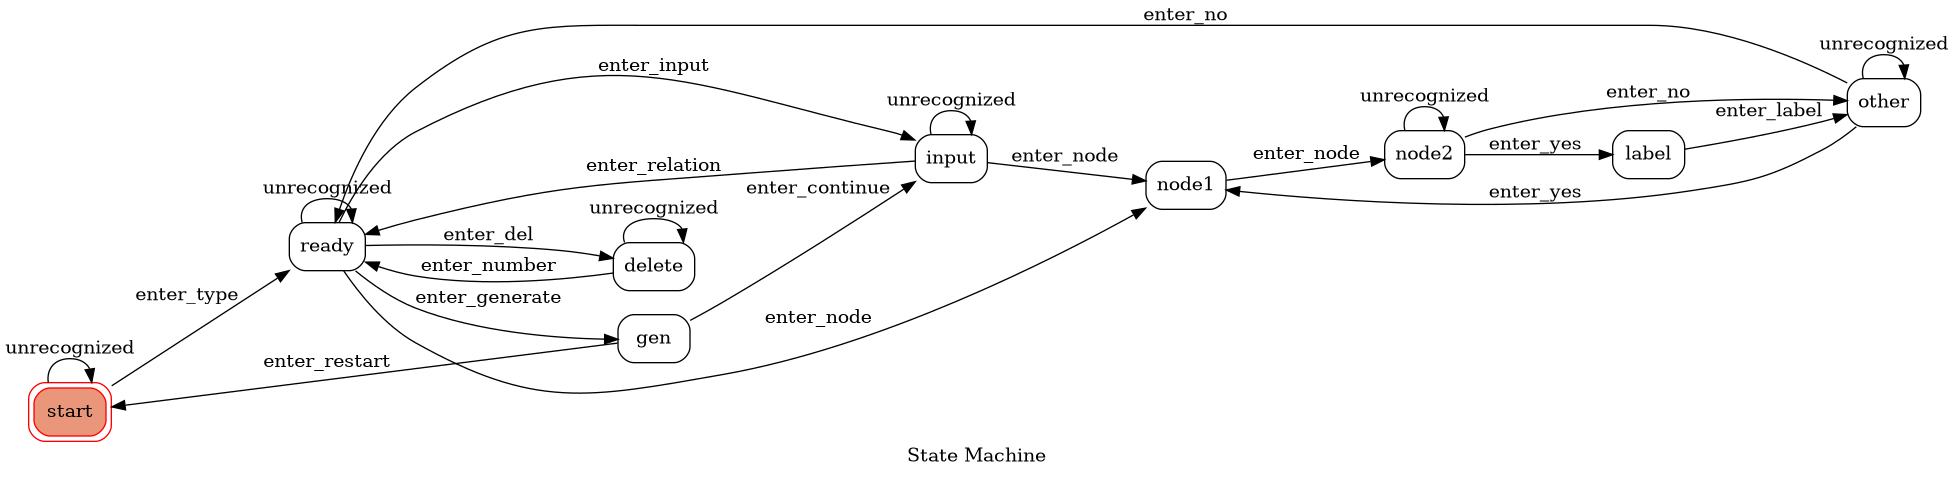
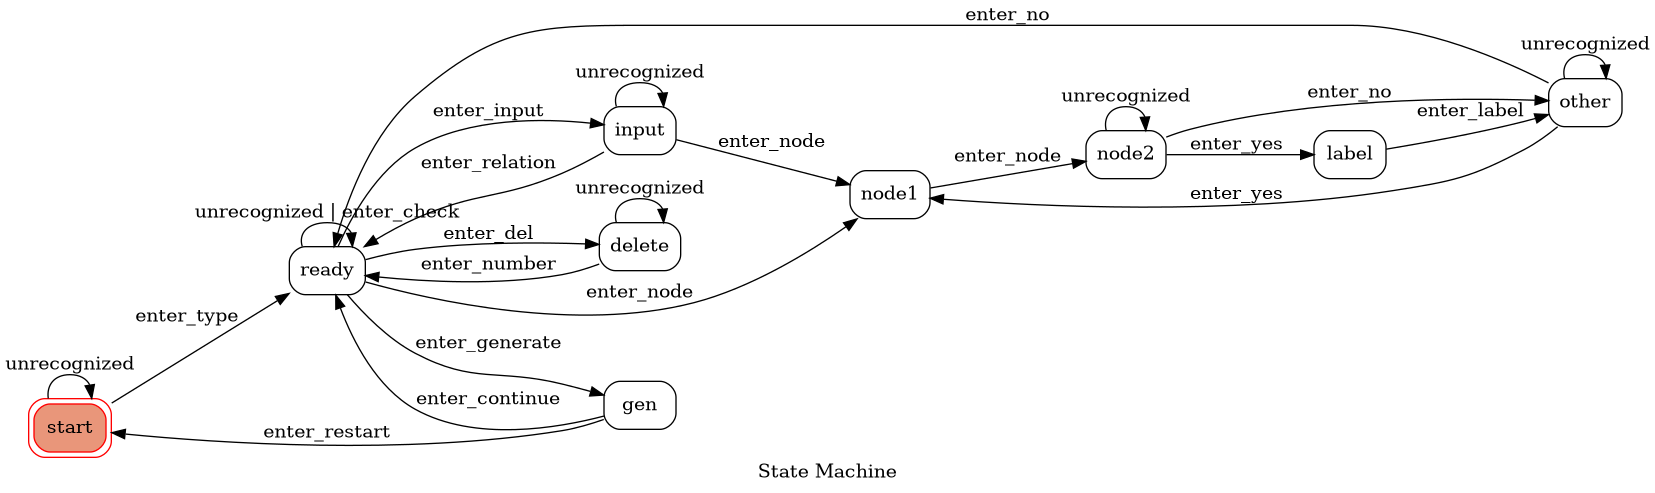
Fix next state after continue, change some words

diff --git a/drawapp/machine.py b/drawapp/machine.py
@@ -72,6 +72,7 @@ class RobotMachine(object):
         self.machine.add_transition("enter_input",    "ready", "input")
         self.machine.add_transition("enter_generate", "ready", "gen")
         self.machine.add_transition("enter_del",      "ready", "delete")
+        self.machine.add_transition("enter_check",    "ready", "ready")
         self.machine.add_transition("unrecognized",   "ready", "ready")
         self.machine.add_transition("enter_number",   "delete", "ready")
         self.machine.add_transition("unrecognized",   "delete", "delete")
@@ -86,8 +87,8 @@ class RobotMachine(object):
         self.machine.add_transition("unrecognized",   "other", "other")
         self.machine.add_transition("enter_relation", "input", "ready")
         self.machine.add_transition("enter_node",     "input", "node1")
+        self.machine.add_transition("enter_continue", "gen",   "ready")
         self.machine.add_transition("unrecognized",   "input", "input")
-        self.machine.add_transition("enter_continue", "gen",   "input")
         self.machine.add_transition("enter_restart",  "gen",   "start")
 
         self.reply_token = ""
@@ -107,7 +108,7 @@ class RobotMachine(object):
         message = "$ Current Input status:"
         count = 1
         for element in self.relations:
-            message += "\n" + str(count) + ". " + element[0]
+            message += "\n" + str(count) + ".  " + element[0]
             if (element[2] != ""):
                 message += " -" + element[2] + "> "
             else:
@@ -142,7 +143,7 @@ class RobotMachine(object):
 
     def _on_enter_ready(self):
         print("enter ready")
-        message = "Choose your behavior!"
+        message = "Choose an option!"
         self.message_q.append(TextSendMessage(message[:]))
         actions=[
             MessageTemplateAction(
@@ -168,9 +169,9 @@ class RobotMachine(object):
 
         self.message_q.append(
             TemplateSendMessage(
-                alt_text="Choose behavior",
+                alt_text="Choose an option",
                 template=ButtonsTemplate(
-                    title='Choose behavior',
+                    title='Choose an option',
                     text="Choose what you want to do to the graph",
                     actions=actions
                 )
@@ -297,7 +298,7 @@ class RobotMachine(object):
             TemplateSendMessage(
                 alt_text="What's next?",
                 template=ButtonsTemplate(
-                    title='Next behavior',
+                    title='Next step',
                     text="What's next?",
                     actions=[
                         MessageTemplateAction(

diff --git a/drawapp/views.py b/drawapp/views.py
@@ -188,7 +188,7 @@ def ready_transition(event, user_id):
         user_map[user_id].message_q.append(
             TextSendMessage(text=message, emojis=hint_emoji)
         )
-        user_map[user_id].unrecognized()
+        user_map[user_id].enter_check()
     elif (event.message.text.lower() == 'deletion'
             and len(user_map[user_id].relations) > 0):
         user_map[user_id].enter_del()
